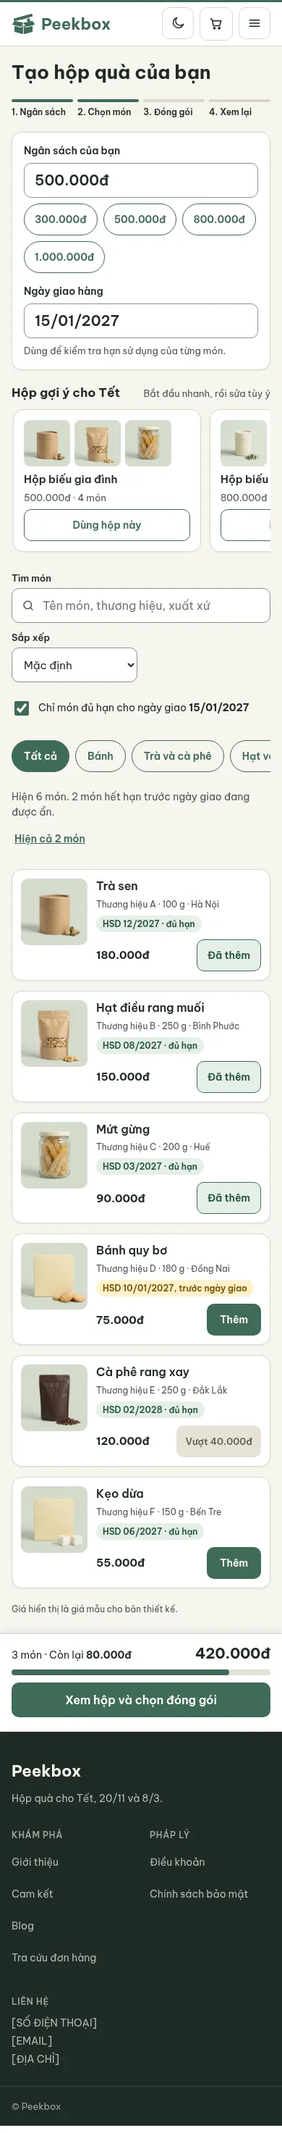
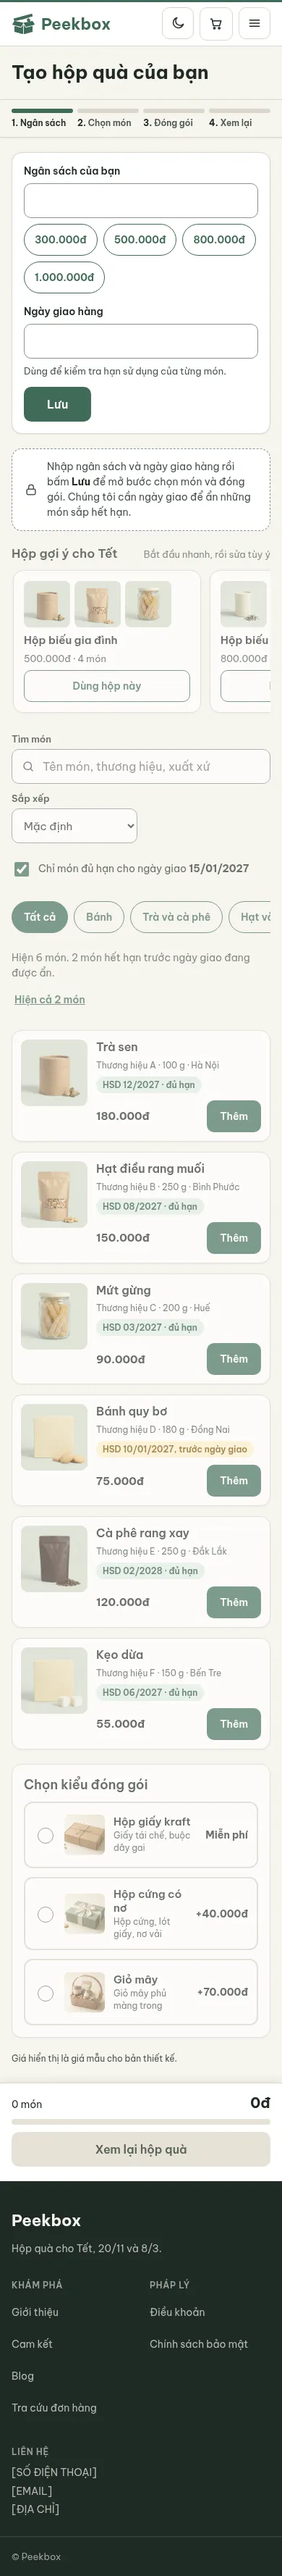
Mockups: builder steps 1 to 3 on one page, step 4 as its own review page (M1, builder mockups) (#47)
## What changed
New mockups for the builder flow: steps 1 to 3 (budget and date, items,
packaging) are on one page, and step 4 (review) is its own page. A
sticky progress strip shows each step as done (light), current (dark
green) or not reached (plain). Later steps stay locked until the earlier
step is done. Light and dark, desktop (1440) and phone (390).

| File | What it shows |
|---|---|
| `customer/02-builder.*`, `dark/02-builder.*` | The builder on arrival:
step 1 current, steps 2 and 3 locked (faded to 65 %, with a lock note),
button "Lưu" |
| `states/26-builder-items-unlocked.*` (+ dark) | Budget and date saved:
step 2 open, packaging still locked ("Chọn ít nhất 1 món…") |
| `states/27-builder-packaging-unlocked.*` (+ dark) | Items chosen:
packaging open |
| `customer/04-review.*`, `dark/04-review.*` | Step 4: budget and date,
packaging, and items as read-only cards with Sửa / Đổi links; summary
and add to cart. On a phone, the summary is a "Xem tổng kết" bar |
| `states/29-review-summary-open.mobile` (+ dark) | Phone only: the Tổng
kết sheet open. Everything behind it is dimmed, the strip too |
| `states/30-review-expired-item.*` (+ dark) | **Unhappy path:** an item
expires before the delivery date. A red banner, the item marked with "Bỏ
món này", and the add-to-cart button disabled |

- **Removed:** `04-packaging-and-review.*` (light and dark), because
packaging moved into the builder. Its unhappy path (the expired item) is
kept as state 30.
[…]

Changed region(s): [[0.0, 0.0, 1.0, 1.0], [0.6154, 0.2499, 0.6769, 0.3124]]

diff --git a/design/README.md b/design/README.md
@@ -11,9 +11,9 @@ The live, editable design is on the Claude Design canvas: https://claude.ai/arti
 
 | Folder | What |
 |---|---|
-| `mockups/customer/` | The 12 customer pages (Vietnamese, light), each as `.desktop.webp` and `.mobile.webp`: 01 home, 02 builder (with starter boxes), 03 item detail, 04 packaging and review, 05 cart, 06 checkout, 07 order confirmation, 08 blog list, 09 blog post, 10 about and commitments, 11 terms and privacy, 12 track an order |
+| `mockups/customer/` | The 12 customer pages (Vietnamese, light), each as `.desktop.webp` and `.mobile.webp`: 01 home, 02 builder (steps 1 to 3 on one page: budget and date, items, packaging; this image is the start of the page, step 1 current and steps 2 and 3 locked), 03 item detail, 04 review (step 4, a separate page), 05 cart, 06 checkout, 07 order confirmation, 08 blog list, 09 blog post, 10 about and commitments, 11 terms and privacy, 12 track an order |
 | `mockups/admin/` | The 11 admin screens, desktop and mobile: login, orders, items and stock, campaigns, settings, delivery cutoffs, coupons, reviews, stats, users, account |
-| `mockups/states/` | Pages that appear only after something happens, or small features, desktop and mobile: empty cart, checkout errors, ZaloPay payment failed, builder cards (chosen, sold out, expires before the delivery date, would exceed the budget) with a no-results box, 404, cart coupon error, an item sold out during checkout, search suggestions, added-to-hamper toast, share menu, floating contact and back-to-top buttons, loading skeleton, resume an unfinished hamper, track an order with no match (19), a cancelled order (20), the phone menu open (21), track an order after too many tries (22), the admin account menu on a phone (23), the item page with the Thông tin chi tiết tab open (24) and with Giao hàng và đổi trả open (25), the builder with both field warnings (28); admin: empty orders day, login locked, empty items, coupons and reviews |
+| `mockups/states/` | Pages that appear only after something happens, or small features, desktop and mobile: empty cart, checkout errors, ZaloPay payment failed, builder cards (chosen, sold out, expires before the delivery date, would exceed the budget) with a no-results box, 404, cart coupon error, an item sold out during checkout, search suggestions, added-to-hamper toast, share menu, floating contact and back-to-top buttons, loading skeleton, resume an unfinished hamper, track an order with no match (19), a cancelled order (20), the phone menu open (21), track an order after too many tries (22), the admin account menu on a phone (23), the item page with the Thông tin chi tiết tab open (24) and with Giao hàng và đổi trả open (25), the builder with the budget and date saved and the items open (26), the builder with items chosen and the packaging open (27), the builder with both field warnings (28), the phone review page with the Tổng kết sheet open (29, phone only), and the review page when an item expires before the delivery date: a red banner, the item marked, and the add-to-cart button disabled (30); admin: empty orders day, login locked, empty items, coupons and reviews |
 | `mockups/dark/` | Dark mode of all 12 customer pages and of the customer states (`states/`), desktop and mobile |
 | `mockups/foundations/` | The palette and type board, the interaction states board (hover, focus, pressed, disabled; light and dark), and the logo as SVG (also in `public/images/logo/`). The logo is a traced vector, so a designer may want to redraw it with sharper corners. |
 | `source/` | The design source files (`.dc.html`) and `canvas.json` (the board layout). They only render inside the Claude Design canvas; the photos in them point to files stored in that canvas. Keep them as a backup, or to publish again. They are not a usable frontend (see below). |

diff --git a/docs/decisions.md b/docs/decisions.md
@@ -73,3 +73,4 @@ One line per decision: date, what, why. Newest at the bottom.
 - 2026-11-14: Interaction looks are specified once, on the Interaction states board (light and dark) and in the design notes: default, hover, keyboard focus, pressed, disabled. Hover applies only where a mouse exists, the focus ring is never removed, and "reduce motion" removes movement and keeps the colour change. The values reuse the palette; the only new colours are the table-row hover tints (light and dark), listed in the notes.
 - 2026-11-14: The admin shows who is signed in: an account chip with initials, name and role, and a bordered "Đăng xuất" button at the bottom of the sidebar. On a phone the header has an initials button that opens a small menu. The role is a placeholder until the users screen is built.
 - 2026-11-15: Dark mode leans green instead of neutral grey (page `#121513`, cards `#1B201C`, links and focus `#9EC3A5`), so it matches the sage and the kraft photos. This replaces the 2026-11-11 dark-mode line and the dark half of the 2026-11-14 footer line: the dark footer is now the card colour, unchosen options use the page colour (no pure black), wide colour blocks (seasonal strip, home green band, occasion panels) are deeper than in light mode, and photos are shown at 90 % brightness. In both modes section headings are SemiBold and the page title stays Bold; the home page uses two backgrounds instead of three. Approved by the owner.
+- 2026-11-15: The builder is one page for steps 1 to 3 (budget and date, items, packaging), and step 4 (review) is its own page. A sticky step strip shows done, current and not reached. Items and packaging stay locked until the budget and date are saved ("Lưu"), and packaging stays locked until at least one item is in the box. Step 4 shows budget, date, packaging and items read-only, with links back to change them; on a phone its summary opens from a bottom bar. Packaging is no longer chosen on the review page.
